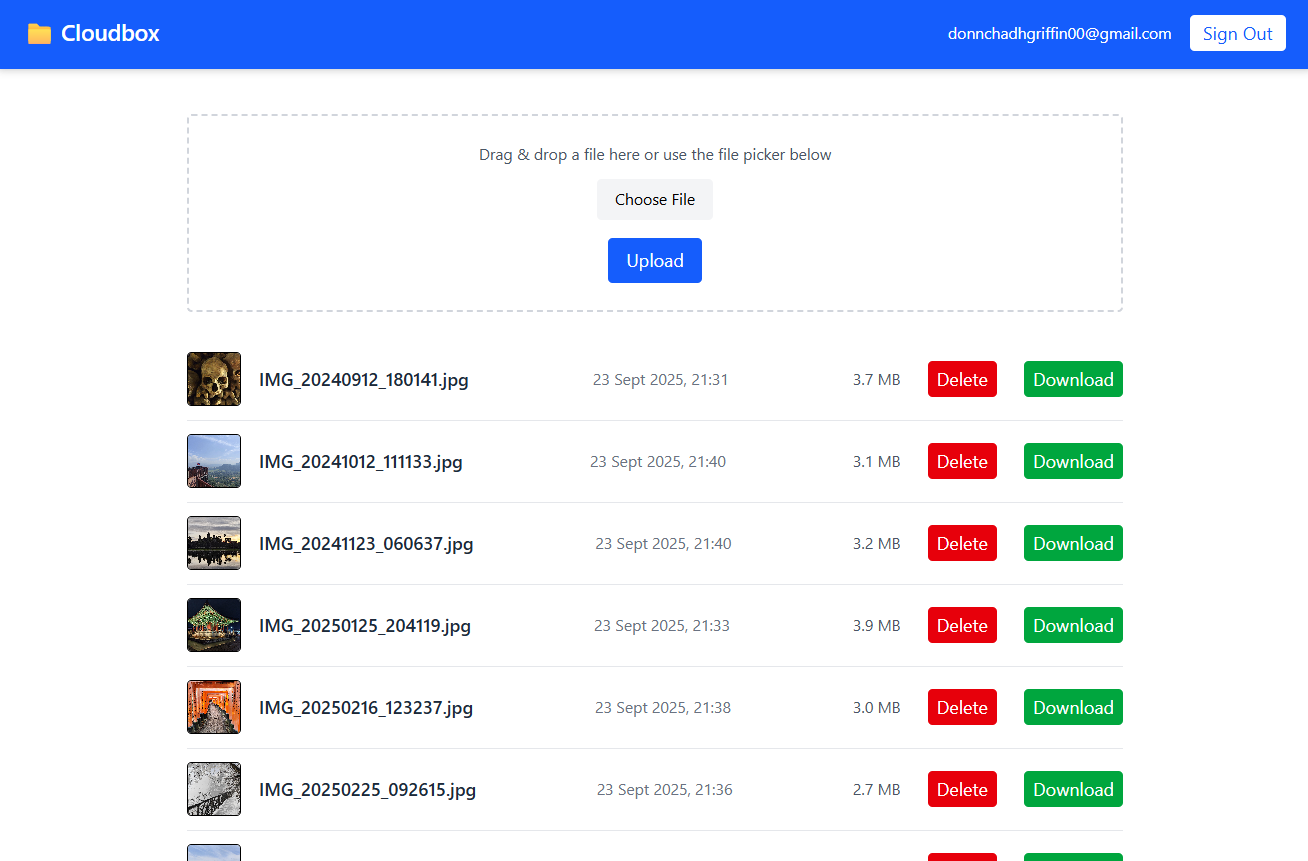
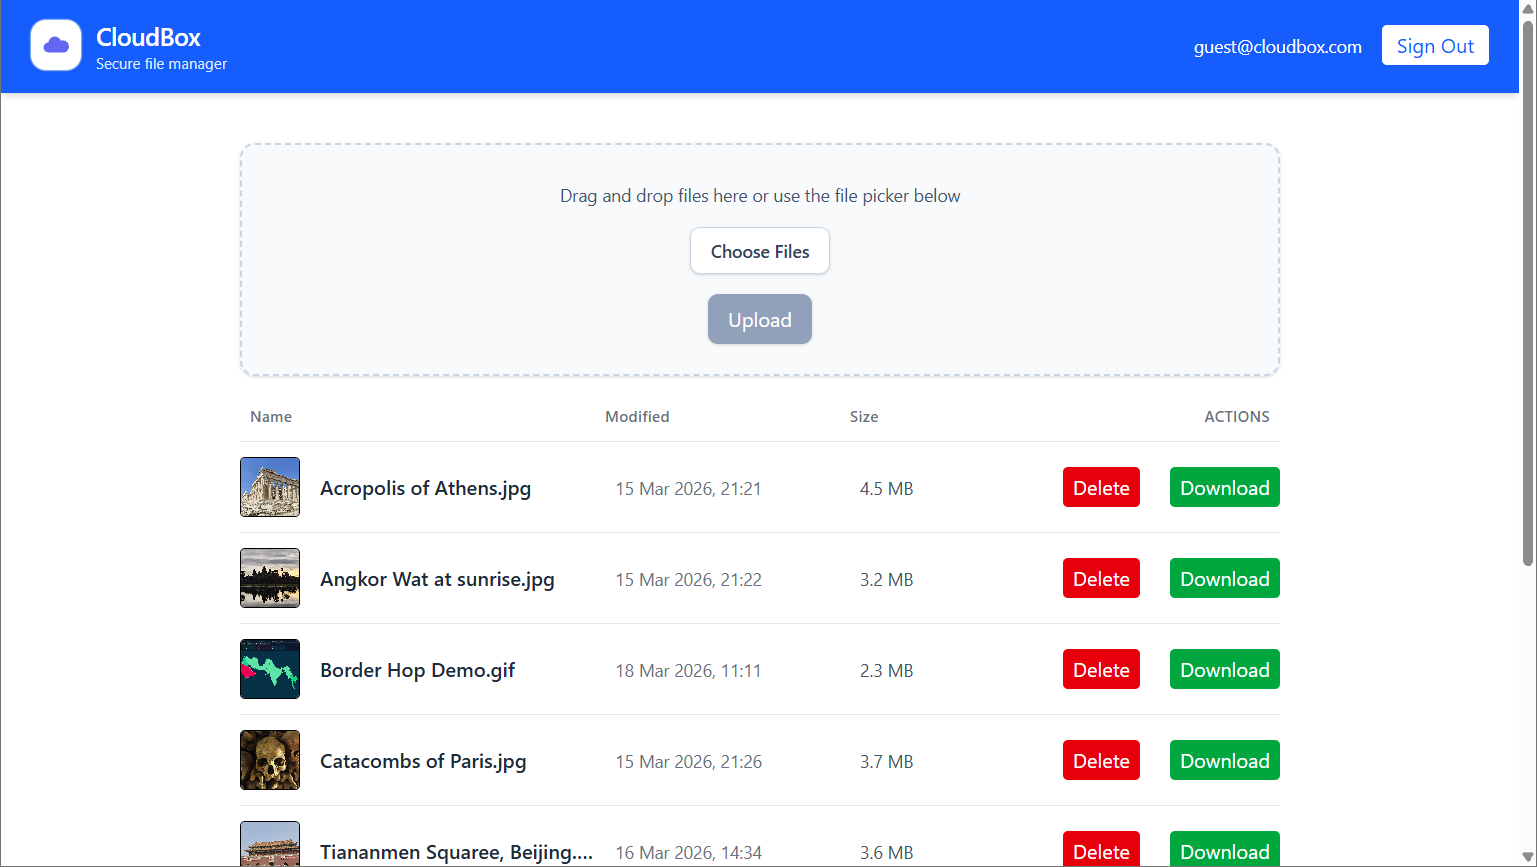
chore(polish): tighten naming and final portfolio copy

diff --git a/cloudboxapp/src/features/fileManager/FileUploader.jsx b/cloudboxapp/src/features/fileManager/FileUploader.jsx
@@ -1,6 +1,6 @@
 import { useState } from 'react';
 
-export default function FileUpoader({
+export default function FileUploader({
     filesToUpload,
     setFilesToUpload,
     uploadFiles,
@@ -36,11 +36,8 @@ export default function FileUpoader({
             }}
             className={isDraggingClass(isDragging)}
         >
-            {/* <p className="text-sm font-semibold text-slate-800">
-                Drop files here
-            </p> */}
             <p className="mt-1.5 mb-4 max-w-md text-sm leading-5 text-slate-600">
-                Drag & drop a file here or use the file picker below
+                Drag and drop files here or use the file picker below
             </p>
 
             <input
@@ -54,7 +51,7 @@ export default function FileUpoader({
                 htmlFor="fileInput"
                 className="inline-flex items-center rounded-lg border border-slate-300 bg-white px-4 py-2 text-sm font-medium text-slate-700 shadow-sm transition hover:border-slate-400 hover:bg-slate-100 cursor-pointer"
             >
-                Choose File
+                Choose Files
             </label>
 
             {filesToUpload.length > 0 && (

diff --git a/cloudboxapp/src/FileManager.jsx b/cloudboxapp/src/FileManager.jsx
@@ -95,7 +95,6 @@ export default function FileManager() {
       toast.success('Download started');
     } catch (err) {
       console.error('Error downloading file:', err);
-      alert('Failed to download file');
       toast.error('Download failed');
     } finally {
       setDownloadingFile(null);

diff --git a/cloudboxapp/src/App.jsx b/cloudboxapp/src/App.jsx
@@ -1,6 +1,6 @@
 import FileManager from './FileManager';
 import { Toaster } from 'react-hot-toast';
-import MainLayout from './layout/MainLaoyout';
+import MainLayout from './layout/MainLayout';
 
 function App() {
   return (

diff --git a/README.md b/README.md
@@ -15,6 +15,7 @@ It features a modern drag-and-drop interface, built with **React** and **Tailwin
 - Delete files from user-scoped S3 paths
 - Responsive UI with toast notifications and spinners
 - Modular architecture using reusable components, hooks, and services
+- Lightweight CI plus focused unit tests for file key and Lambda logic
 
 ---
 
@@ -139,6 +140,22 @@ amplify push
 Set the following environment variable for each Lambda handler:
 
 - `CLOUDBOX_STORAGE_BUCKET`: the S3 bucket used for file storage
+
+### 5. Validate the Project
+
+From `cloudboxapp/`:
+
+```bash
+npm test
+npm run lint
+npm run build
+```
+
+From `lambda-function/`:
+
+```bash
+npm test
+```
 
 ---
 
